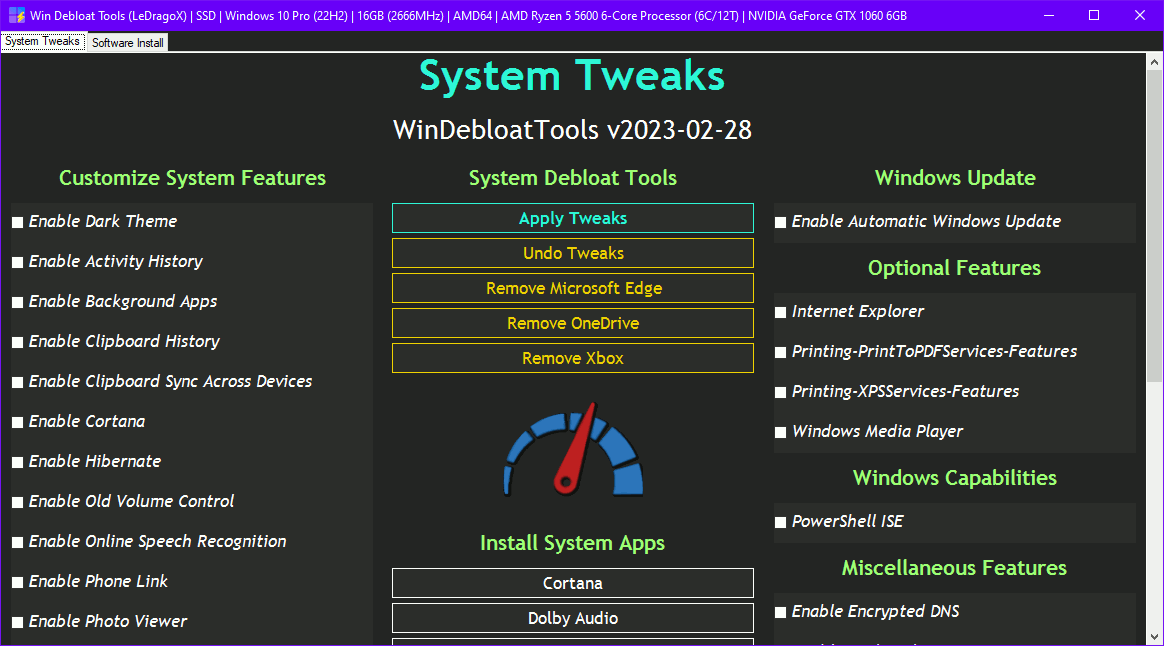
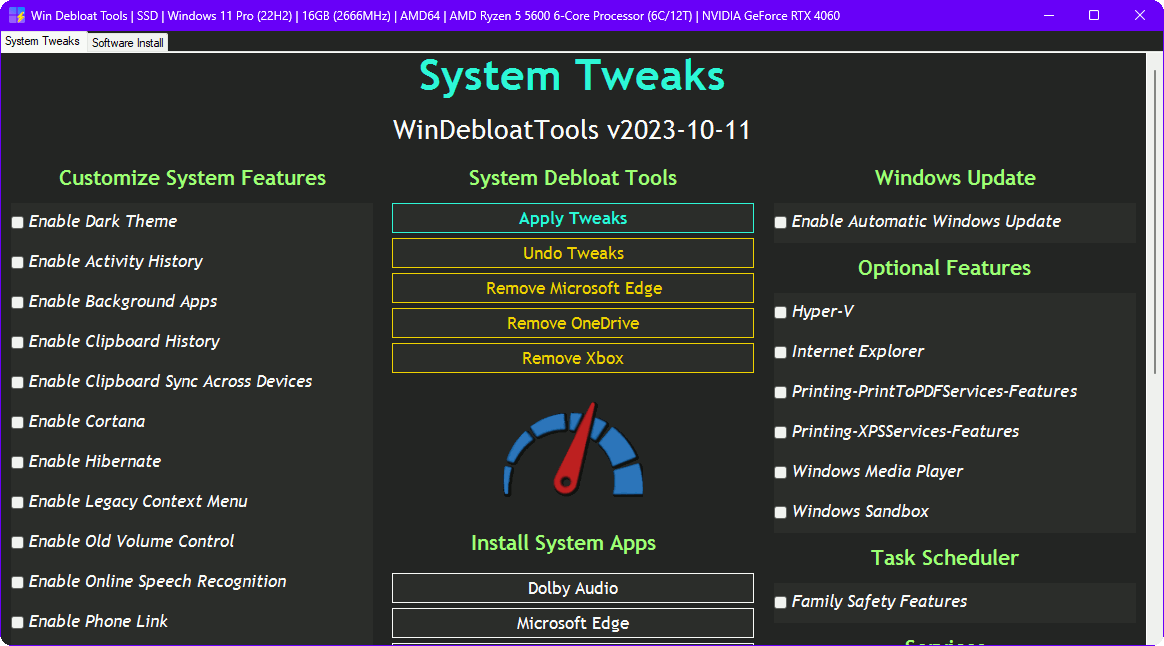
Fix and Update Readme Info (#128)
* Update script GUI

* Fix Powershell workflow badge

* Truly fix PSScriptAnalizer badge
- .yml -> yaml

* Update README info to match all functionalities

diff --git a/README.md b/README.md
@@ -11,7 +11,7 @@ I need to change these files:
 <h2 align="center">
 <img src="src/assets/script-logo.png" style="vertical-align: bottom" width="90%">
 
-[![PSScriptAnalyzer](https://github.com/LeDragoX/Win-Debloat-Tools/actions/workflows/powershell-linter.yml/badge.svg?style=flat)](https://github.com/LeDragoX/Win-Debloat-Tools/actions/workflows/powershell-linter.yml)
+[![PSScriptAnalyzer](https://github.com/LeDragoX/Win-Debloat-Tools/actions/workflows/powershell.yaml/badge.svg?style=flat)](https://github.com/LeDragoX/Win-Debloat-Tools/actions/workflows/powershell.yaml)
 ![GitHub issues](https://img.shields.io/github/issues/LeDragoX/Win-Debloat-Tools?label=Issues)
 ![GitHub license](https://img.shields.io/github/license/LeDragoX/Win-Debloat-Tools?color=blue&label=License)
 [![Commit rate](https://img.shields.io/github/commit-activity/m/LeDragoX/Win-Debloat-Tools?label=Commit%20rate)](https://github.com/LeDragoX/Win-Debloat-Tools/commits/master)
@@ -153,7 +153,7 @@ Set-ExecutionPolicy Unrestricted -Scope CurrentUser -Force; ls -Recurse *.ps*1 |
 
 - `Apply Tweaks`: Run every Common Tweak scripts ([Go To **☑ Common Script Features** section](#%EF%B8%8F-common-script-features));
 - `Undo Tweaks`: Re-apply some tweaks and _Revert_ all possible ones, covering the, `ShutUp10 settings`, `Scheduled Tasks`, `Services`, `Privacy and Performance`, `Personal` and `Optional Features` tweaks, then try to `Reinstall Pre-Installed Apps`;
-- [`Remove Microsoft Edge`](./src/scripts/Remove-MSEdge.ps1): uninstalls **Microsoft Edge**, then remove the remaining files, **Edge Web View** files will remain untouched;
+- [`Remove Microsoft Edge`](./src/scripts/Remove-MSEdge.ps1): uninstalls **Microsoft Edge**, disables Scheduled Tasks and Services related to Edge, then remove the remaining files, **Edge Web View** files will remain untouched, but apps which depends on **WebView2** will not install unless you install Microsoft Edge;
 - [`Remove OneDrive`](./src/scripts/Remove-OneDrive.ps1): completely removes OneDrive from the System, re-install is possible via Win Store;
 - [`Remove Xbox`](./src/scripts/Remove-Xbox.ps1): wipe Xbox Apps, disable Services related to Xbox and GameBar/GameDVR;
 
@@ -166,6 +166,7 @@ _This section contains options to restore the system apps, by downloading them f
 - `OneDrive`;
 - `Paint + Paint 3D`;
 - `Phone Link`;
+- `Quick Assist`;
 - `Sound Recorder`;
 - `Taskbar Widgets`;
 - `Windows Media Player (UWP)`;
@@ -188,10 +189,23 @@ _This section contains tools to solve some Windows problems and get info about h
 
 _This section can manually adjust `Optional Features` from the system, working as a ON/OFF toggle._
 
+#### Task Scheduler ([Can be found here](src/utils/Individual-Tweaks.psm1))
+
+_This section can manually adjust `Scheduled Tasks` from the system, working as a ON/OFF toggle._
+
+#### Services ([Can be found here](src/utils/Individual-Tweaks.psm1))
+
+_This section can manually adjust `Services` from the system, working as a ON/OFF toggle._
+
+#### Windows Capabilities ([Can be found here](src/utils/Individual-Tweaks.psm1))
+
+_This section can manually adjust `Windows Capabilities` from the system, working as a ON/OFF toggle._
+
 #### Miscellaneous Features ([Can be found here](src/utils/Individual-Tweaks.psm1))
 
 - `Enable/Disable Encrypted DNS`: Sets the DNS Client Servers to **Cloudflare's** and **Google's** (ipv4 and ipv6), and enables **DNS Over HTTPS** on _Windows 11_.
 - `Enable/Disable God Mode`: Manages the hidden Desktop folder called "**God Mode**";
+- `Enable/Disable Mouse Acceleration`: Manages the **Enhance Pointer Precision** setting from mouse settings;
 - `Enable/Disable Mouse Natural Scroll`: Sets the mac-like mouse scrolling behavior, basically reverts mouse scroll direction;
 - `Enable/Disable Take Ownership menu`: [_Enables_](./src/utils/enable-take-ownership-context-menu.reg) or [_Disables_](src/utils/disable-take-ownership-context-menu.reg) the **Take Ownership context menu**;
 - `Enable/Disable Shutdown PC shortcut`: Manages the **Shutdown Computer desktop shortcut**;
@@ -201,6 +215,7 @@ _This section can manually adjust `Optional Features` from the system, working a
 - [Install _Winget/Chocolatey_ package managers](./src/lib/package-managers/);
 
   - Be able to install the listed software in this script! Even from System apps.
+  - **Importante Note:** When proceeding to install a new app, the script will automatically install the required package manager for that operation.
 
 - [**Create** or **Remove** a Daily Upgrade Task for _Winget/Chocolatey_ packages](./src/lib/package-managers/);
 
